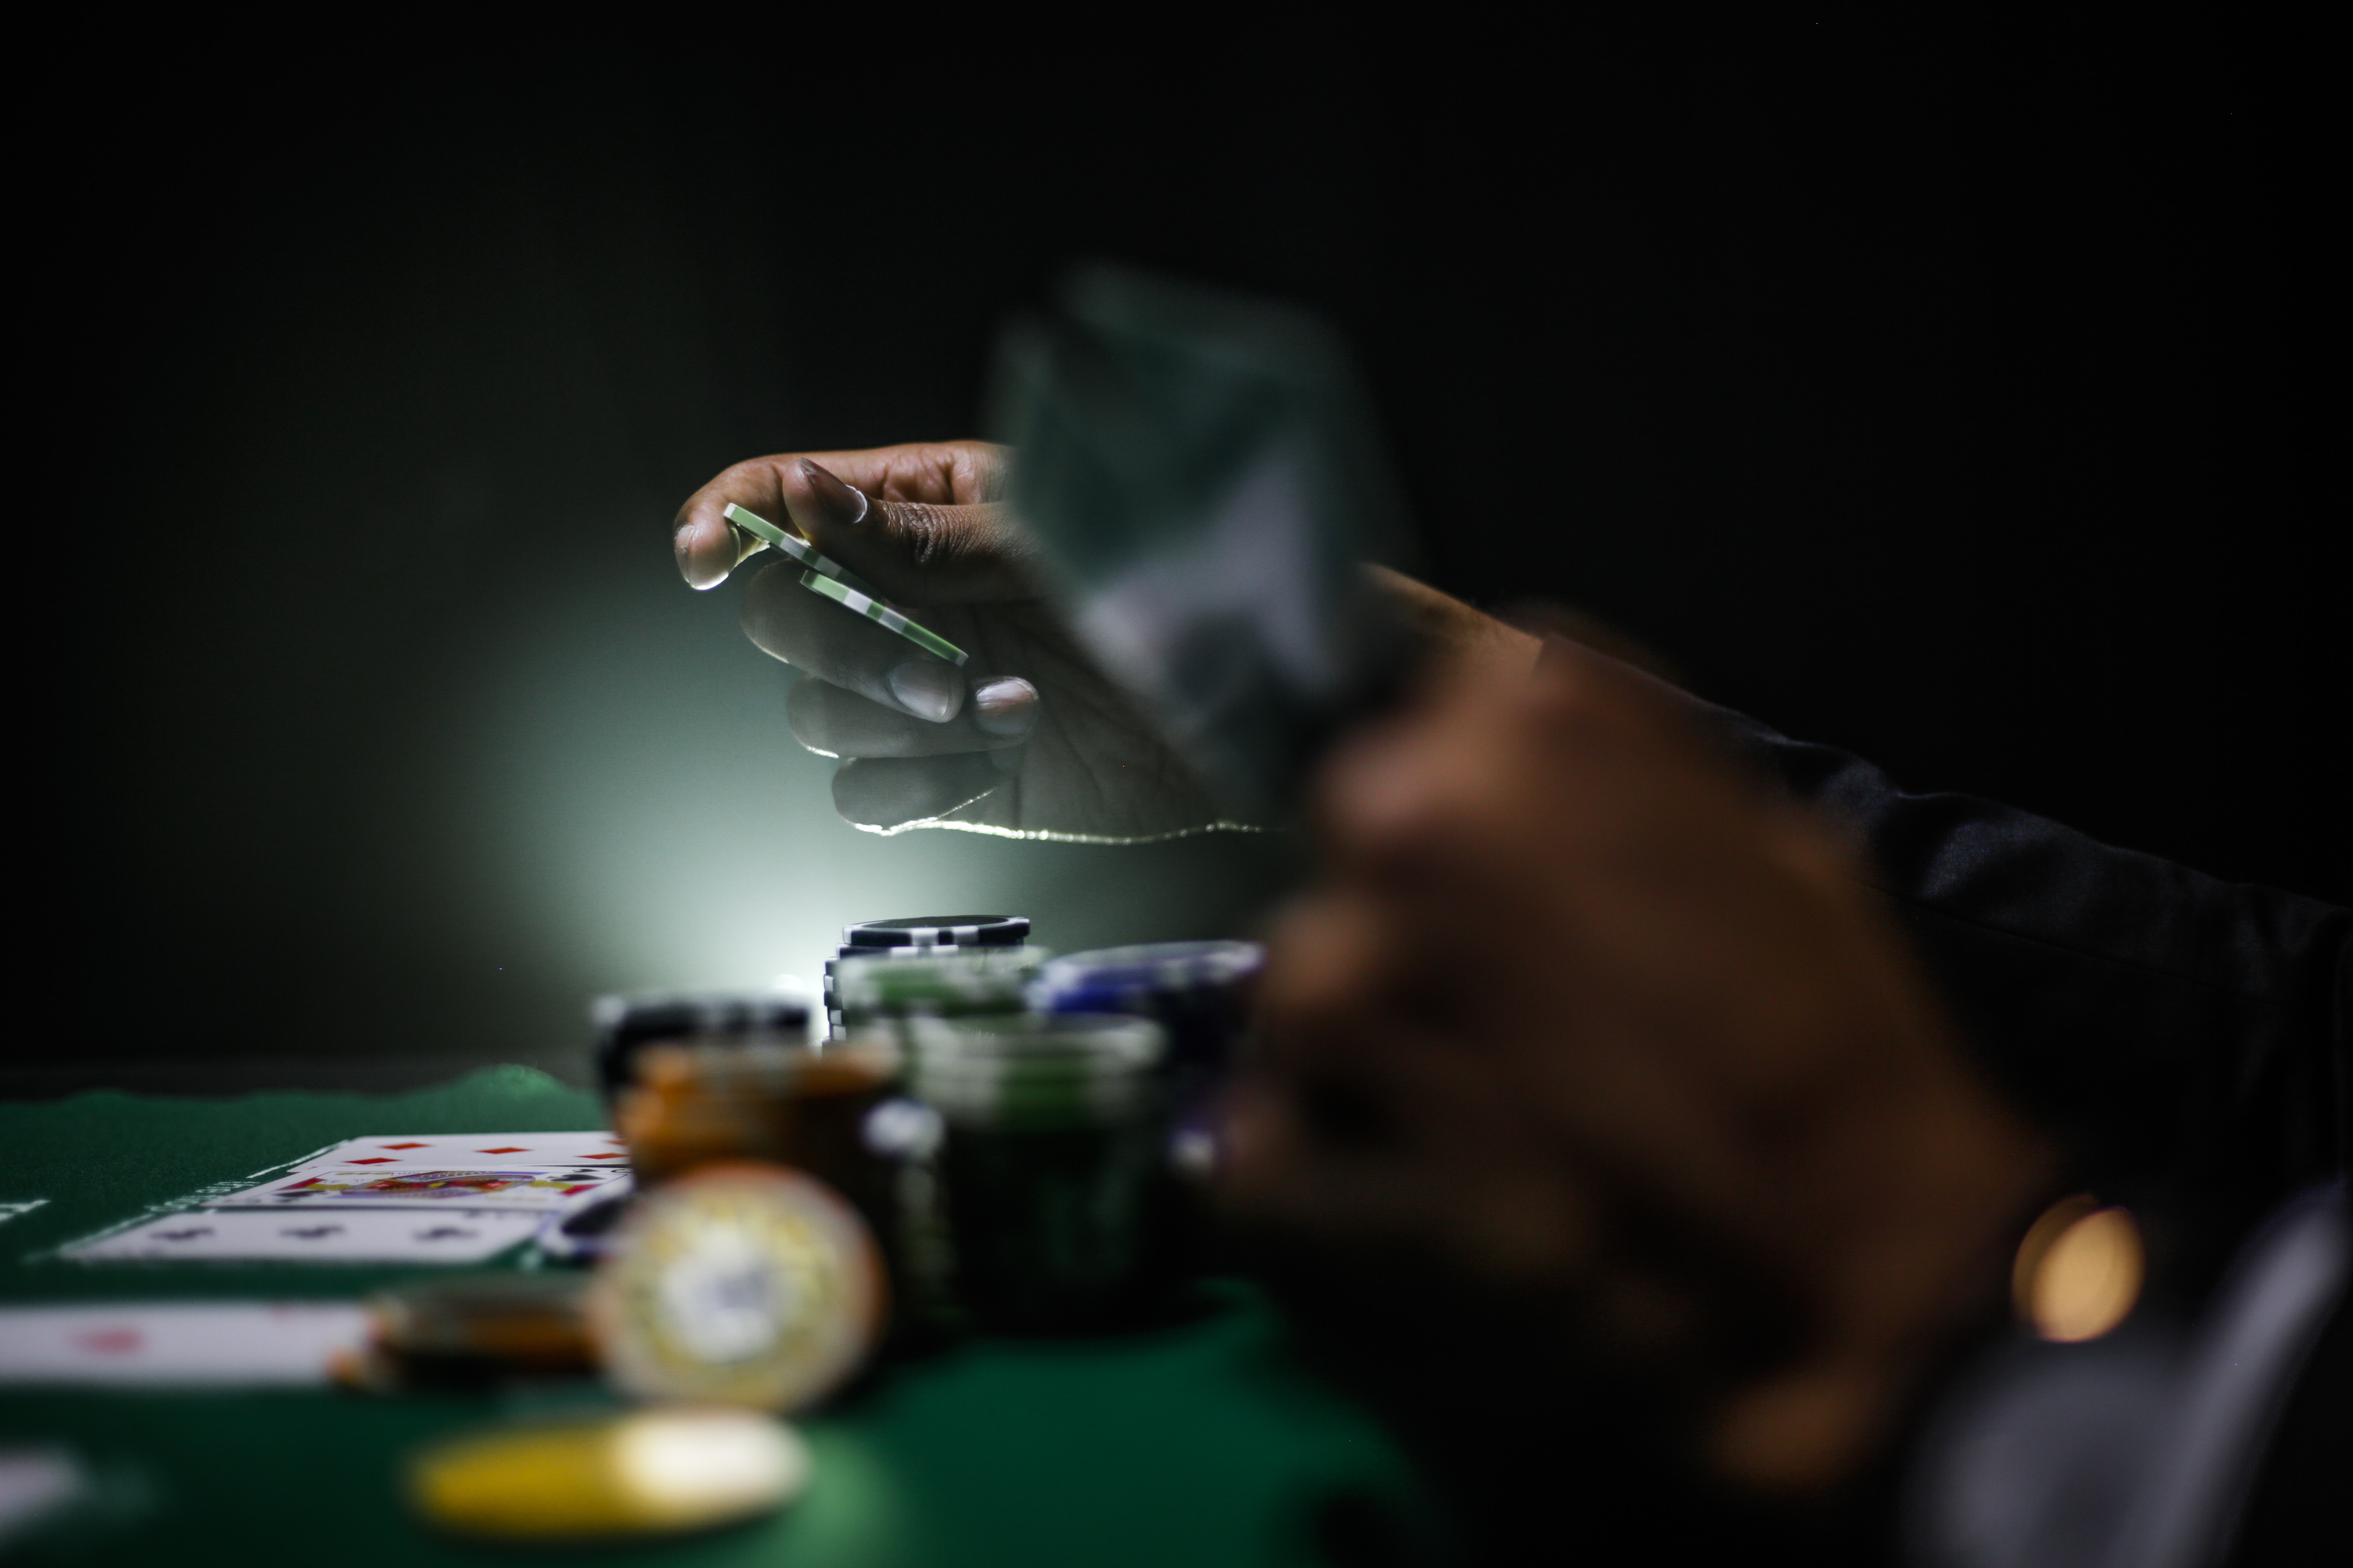
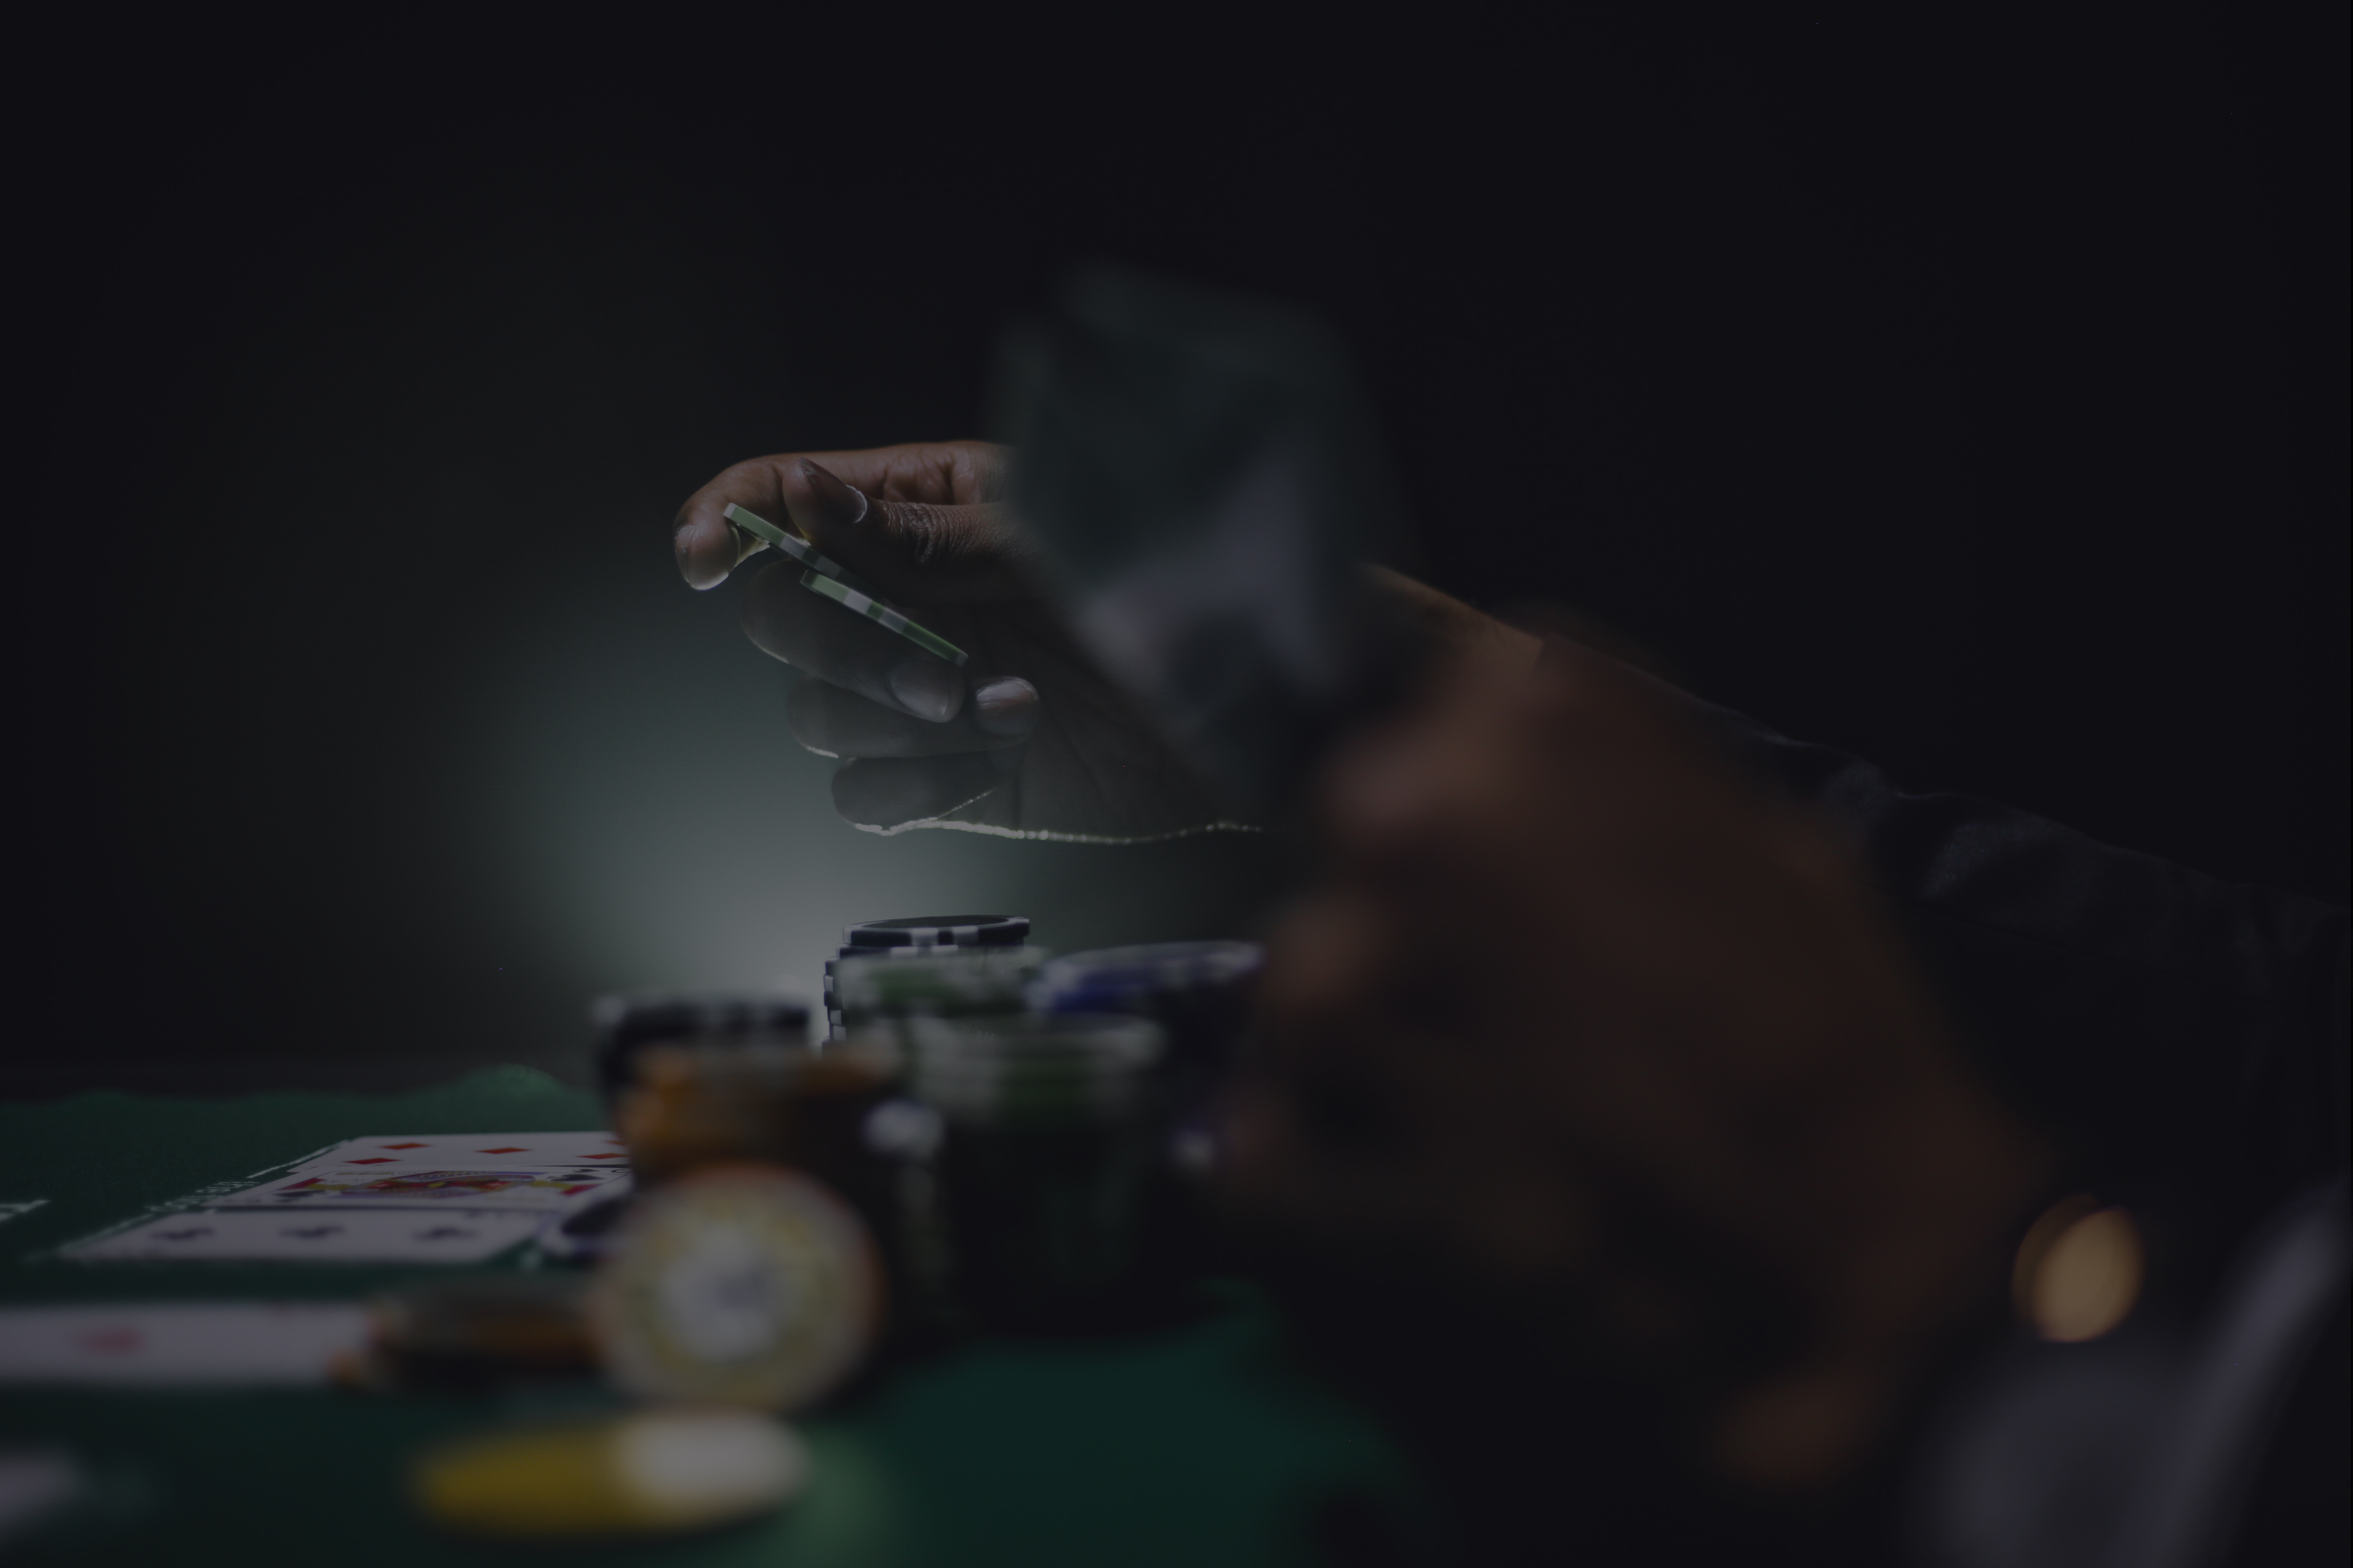
add first styling to landing page

diff --git a/index.html b/index.html
@@ -11,10 +11,16 @@
   <body>
     <header>
       <nav>
-        <a href="">LOGO</a>
-        <a href="">Tilmeld dig</a>
-        <a href="">Log ind</a>
-        <a href="">Regler</a>
+        <div class="logo">
+          <a href="">
+            <img src="/src/assets/img/logo.svg" alt="Logo" />
+          </a>
+        </div>
+        <div class="nav-txt">
+          <a href="">Tilmeld dig</a>
+          <a href="">Log ind</a>
+          <a href="">Regler</a>
+        </div>
       </nav>
       <section id="hero">
         <h1>Best blackjack</h1>
@@ -32,9 +38,9 @@
           new-player-pakke. Hvis du allerede kender spillet og gerne vil udfordre dig selv, er dette stedet! Her kan du spille taktisk med andre øvede spillere mod dealeren.
         </p>
         <div class="images">
-          <img src="" alt="" />
-          <img src="" alt="" />
-          <img src="" alt="" />
+          <img src="/src/assets/img/chips.jpeg" alt="" />
+          <img src="/src/assets/img/chips.jpeg" alt="" />
+          <img src="/src/assets/img/chips.jpeg" alt="" />
         </div>
         <h1>Spil med nu</h1>
         <p>
@@ -45,27 +51,30 @@
 
       <section id="icons">
         <div class="icon-box">
-          <img src="" alt="" />
+          <img src="/src/assets/img/hit.svg" alt="Hit icon" />
           <p>Hit</p>
         </div>
         <div class="icon-box">
-          <img src="" alt="" />
+          <img src="/src/assets/img/stand.svg" alt="Stand icon" />
           <p>Stand</p>
         </div>
         <div class="icon-box">
-          <img src="" alt="" />
+          <img src="/src/assets/img/split.svg" alt="Split icon" />
           <p>Split</p>
         </div>
       </section>
 
       <section id="rules">
         <h1>Regler</h1>
+        <p>Reglerne til Blackjack er i grunden relativt simple. Blackjack går ud på at få en korthånd med en totalværdi som er højere end dealerens uden at gå over værdien 21.</p>
         <p>
-          Reglerne til Blackjack er i grunden relativt simple. Blackjack går ud på at få en korthånd med en totalværdi som er højere end dealerens uden at gå over værdien 21. Et spil blackjack starter
-          med, at du skal vælge hvor meget du vil satse. Minimum- og maksimumindsatserne kan variere, men på denne side er minimumindsatsen kr. 50. For at satse skal du klikke på jetonen med den
-          tilhørende værdi. Når du har valgt hvor meget du vil spille for, giver dealeren kort. Både du og dealer får to kort. Det er kun muligt at se dealerens ene kort med det samme. Når du har fået
-          dine 2 kort, skal du finde kortenes totale værdi. Denne finder du ved at lægge kortenes enkelte værdier sammen. For at kunne udregne dette, skal du naturligvis vide hvor meget de enkelte
-          kort er værd i blackjack. Se kortenes forskellige værdier ved at klikke her, eller scrolle længere ned på siden.
+          Et spil blackjack starter med, at du skal vælge hvor meget du vil satse. Minimum- og maksimumindsatserne kan variere, men på denne side er minimumindsatsen kr. 50. For at satse skal du
+          klikke på jetonen med den tilhørende værdi.
+        </p>
+        <p>
+          Når du har valgt hvor meget du vil spille for, giver dealeren kort. Både du og dealer får to kort. Det er kun muligt at se dealerens ene kort med det samme. Når du har fået dine 2 kort, skal
+          du finde kortenes totale værdi. Denne finder du ved at lægge kortenes enkelte værdier sammen. For at kunne udregne dette, skal du naturligvis vide hvor meget de enkelte kort er værd i
+          blackjack. Se kortenes forskellige værdier ved at <a href="#card-value">klikke her</a> eller scrolle længere ned på siden.
         </p>
         <details>
           <summary>Vinderhånd</summary>
@@ -125,21 +134,25 @@
       <section id="card-value">
         <h1>Kortenes værdier</h1>
         <div class="value-box">
-          <img src="" alt="" />
-          <h2>Es</h2>
-          <p>
-            Dette kort har to værdier: 1 eller 11. Det er op til en selv at værdisætte sit es.
-          </p>
+          <img src="/src/assets/img/aces.png" alt="" />
+          <div class="value-txt">
+            <h2>Es</h2>
+            <p>Dette kort har to værdier: 1 eller 11. <br />Det er op til en selv at værdisætte sit es.</p>
+          </div>
         </div>
         <div class="value-box">
-          <img src="" alt="" />
-          <h2>Billedkort og 10'ere</h2>
-          <p>Disse kort har alle værdien 10.</p>
+          <img src="/src/assets/img/10s.png" alt="" />
+          <div class="value-txt">
+            <h2>Billedkort og 10'ere</h2>
+            <p>Disse kort har alle værdien 10.</p>
+          </div>
         </div>
         <div class="value-box">
-          <img src="" alt="" />
-          <h2>2 - 9</h2>
-          <p>Disse kort har den værdi de viser på kortet.</p>
+          <img src="/src/assets/img/normal_cards.png" alt="" />
+          <div class="value-txt">
+            <h2>2 - 9</h2>
+            <p>Disse kort har den værdi de viser på kortet.</p>
+          </div>
         </div>
       </section>
     </main>

diff --git a/src/scss/landingpage/landingpage_main.scss b/src/scss/landingpage/landingpage_main.scss
@@ -1,10 +1,181 @@
+body {
+  background: $black_primary;
+  color: $white_primary;
+}
+
+h1 {
+  font-family: $font_headline;
+  $min_font: 50px;
+  $max_font: 100px;
+  @include fluid-type($min_width, $max_width, $min_font, $max_font);
+}
+
+p {
+  font-family: $font_body;
+  line-height: 1.5;
+}
+
+a {
+  text-decoration: none;
+  color: $white_primary;
+  font-family: $font_body;
+}
+
+nav {
+  position: fixed;
+  width: 100%;
+
+  .logo {
+    position: absolute;
+    padding: 0.5em;
+
+    img {
+      max-width: 100px;
+    }
+  }
+
+  .nav-txt {
+    text-align: right;
+    font-size: 0.8em;
+    margin: 2em 1em;
+    a {
+      padding: 2em;
+    }
+  }
+}
+
 #hero {
   background-image: url("/src/assets/img/bg-img.jpg");
   background-size: cover;
   height: 100vh;
 
+  display: flex;
+  flex-direction: column;
+  justify-content: center;
+  align-items: center;
+  text-align: center;
+
+  & > * {
+    padding: 0.6em;
+  }
+
   h1 {
+    padding: 0.2em;
+    color: $red_primary;
+    text-shadow: $primary_glow;
     font-family: $font_logo;
-    font-size: 4em;
+  }
+
+  h2 {
+    color: $yellow_primary;
+    font-size: 3.5em;
+    font-family: $font_headline;
+    font-weight: 600;
+  }
+
+  p {
+    font-size: 1.4em;
+  }
+
+  button {
+    background: $red_primary;
+    box-shadow: $primary_glow;
+    font-size: 1.8em;
+    color: $white_primary;
+    border: none;
+    border-radius: 5px;
+    padding: 0.6em 1em;
+    margin-top: 1em;
+    cursor: pointer;
+  }
+}
+
+#welcome {
+  display: grid;
+  justify-items: center;
+  margin: 3em 5em;
+
+  & > * {
+    padding: 0.4em 2em;
+  }
+
+  h2 {
+    font-family: $font_headline;
+    font-size: 1.8em;
+    padding: 1em;
+  }
+  .images {
+    display: grid;
+    grid-template-columns: repeat(3, 1fr);
+    grid-gap: 1em;
+    margin: 3em 0em;
+    img {
+      max-width: 400px;
+      width: 100%;
+    }
+  }
+}
+
+#icons {
+  display: grid;
+  grid-template-columns: repeat(3, 1fr);
+  grid-gap: -1em;
+  justify-items: center;
+  text-align: center;
+
+  padding: 4em;
+}
+
+#rules {
+  display: grid;
+  margin: 3em 5em;
+
+  & > * {
+    padding: 0.4em 2em;
+  }
+
+  h1 {
+    text-align: center;
+  }
+
+  a {
+    font-weight: bold;
+  }
+  details {
+    cursor: pointer;
+    summary {
+      font-size: 1.6em;
+      font-family: $font_headline;
+      border-bottom: 1px $white_primary solid;
+      padding: 0.4em 0em;
+
+      &::-webkit-details-marker {
+        display: none;
+      }
+    }
+  }
+}
+
+#card-value {
+  h1 {
+    text-align: center;
+  }
+
+  h2 {
+    font-size: 1.4em;
+    font-family: $font_headline;
+  }
+
+  .value-box {
+    display: flex;
+    margin: 3em 5em;
+
+    & > * {
+      padding: 0.4em 2em;
+    }
+    img {
+      max-width: 130px;
+      width: 100%;
+    }
   }
 }

diff --git a/src/scss/_fonts.scss b/src/scss/_fonts.scss
@@ -10,3 +10,21 @@ $font_logo: "neonregular";
 
 $font_headline: ("neue-haas-grotesk-display", sans-serif);
 $font_body: ("neue-haas-grotesk-text", sans-serif);
+
+@mixin fluid-type($min-vw, $max-vw, $min-font-size, $max-font-size) {
+  $u1: unit($min-vw);
+  $u2: unit($max-vw);
+  $u3: unit($min-font-size);
+  $u4: unit($max-font-size);
+  @if $u1 == $u2 and $u1 == $u3 and $u1 == $u4 {
+    & {
+      font-size: $min-font-size;
+      @media screen and (min-width: $min-vw) {
+        font-size: calc(#{$min-font-size} + #{strip-unit($max-font-size - $min-font-size)} * ((100vw - #{$min-vw}) / #{strip-unit($max-vw - $min-vw)}));
+      }
+      @media screen and (min-width: $max-vw) {
+        font-size: $max-font-size;
+      }
+    }
+  }
+}

diff --git a/src/scss/_colors.scss b/src/scss/_colors.scss
@@ -1,7 +1,7 @@
 //Primary colors
-$red_primary: #DD2E59;
-$purple_primary: #6A04F5;
-$black_primary: #17161C;
-$white_primary: #F3F6FE;
-$green_primary: #3CC28F;
-$yellow_primary: #FFBD4C;
+$red_primary: #dd2e59;
+$purple_primary: #6a04f5;
+$black_primary: #17161c;
+$white_primary: #f3f6fe;
+$green_primary: #3cc28f;
+$yellow_primary: #ffbd4c;

diff --git a/src/scss/_effects.scss b/src/scss/_effects.scss
@@ -1,4 +1,4 @@
 //Box shadows
-$black_primary: 0 1rem 2.8rem 0 rgba(0, 0, 0, .15);
+$black_primary_shadow: 0 1rem 2.8rem 0 rgba(0, 0, 0, 0.15);
 //Primary button glow
 $primary_glow: $red_primary 0 0 99px;

diff --git a/src/scss/main.scss b/src/scss/main.scss
@@ -1,3 +1,6 @@
+$min_width: 320px;
+$max-width: 1200px;
+
 @import "./fonts";
 @import "./colors";
 @import "./effects";
